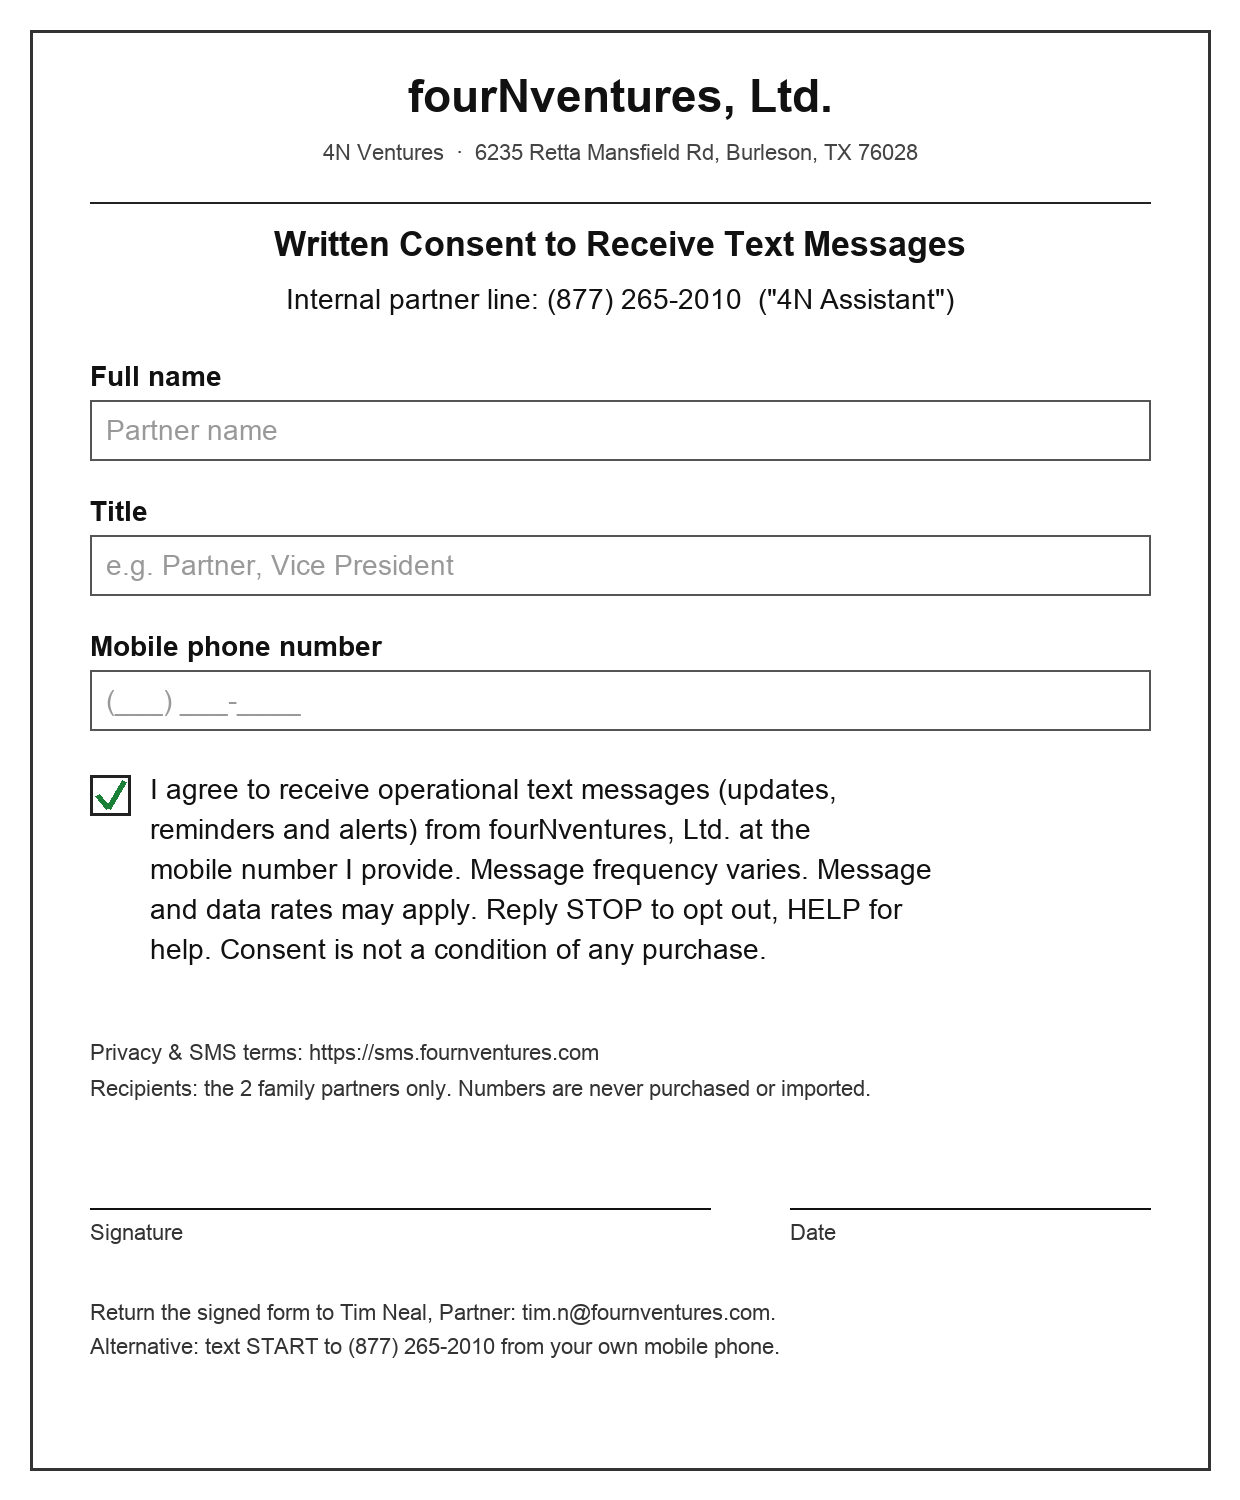
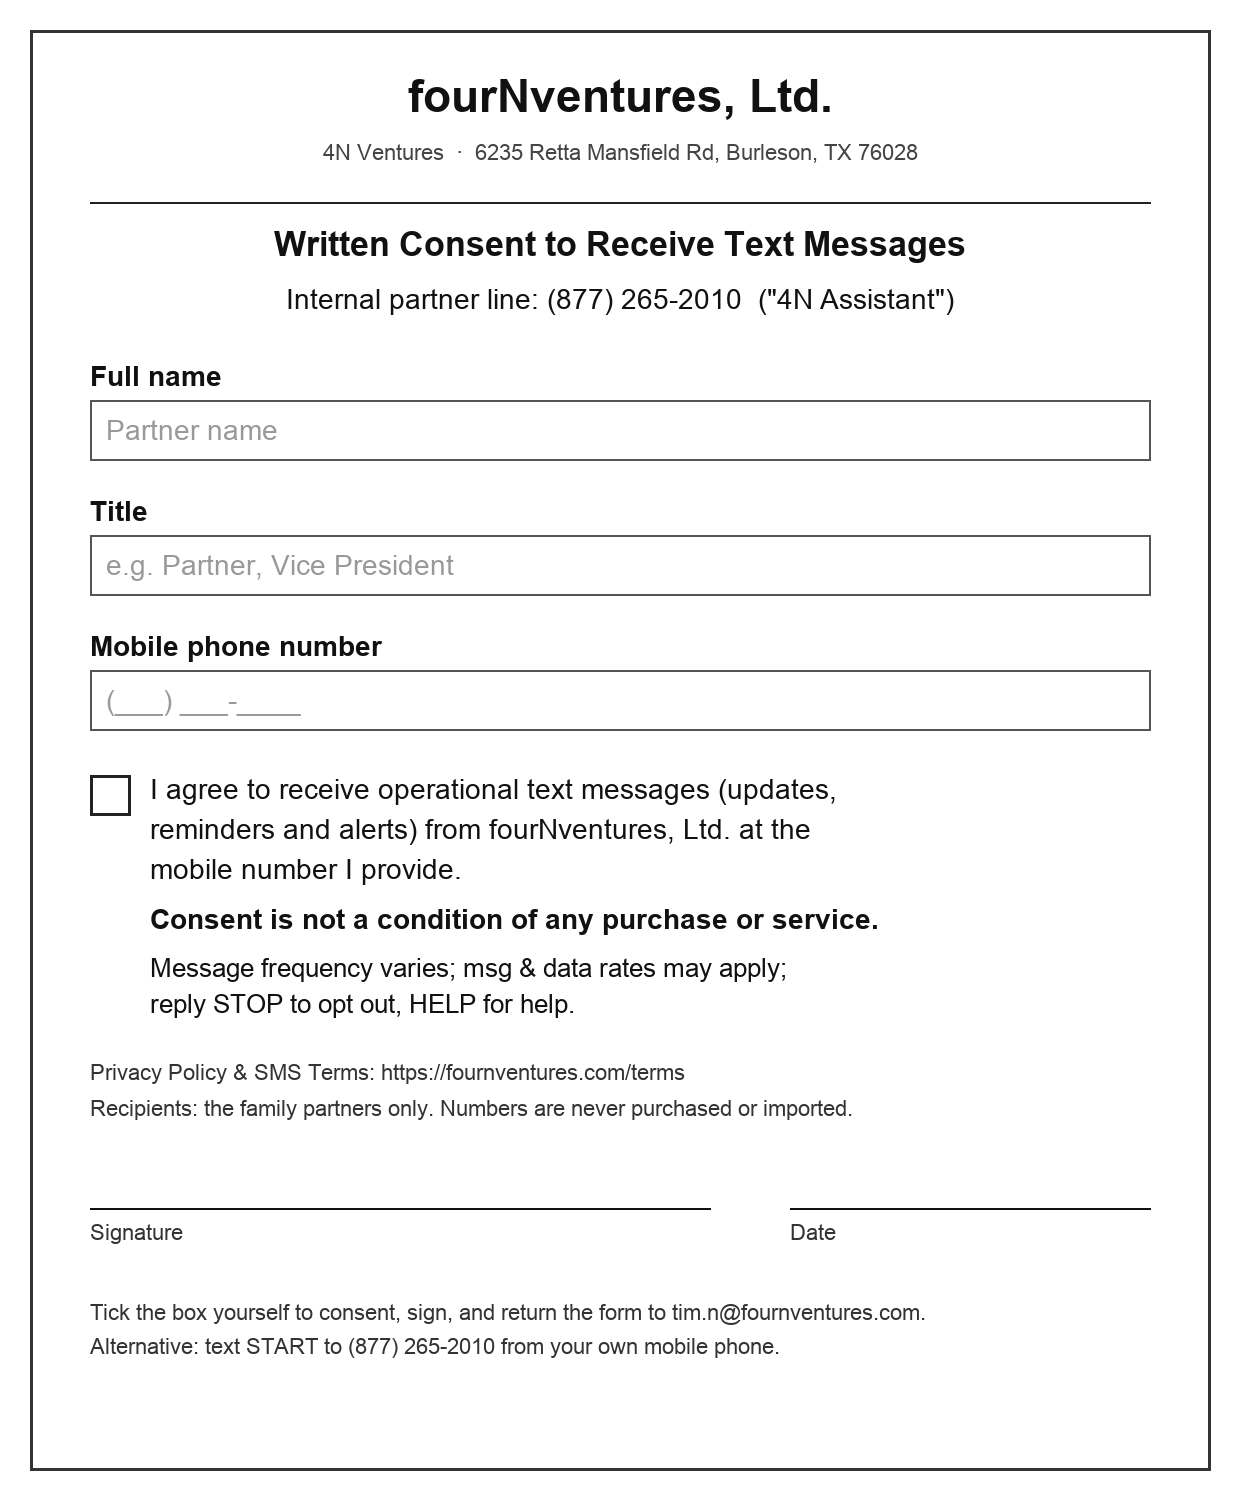
Move SMS terms to fournventures.com/terms (redirect); unchecked opt-in form

Changed region(s): [[0.0613, 0.552, 0.7355, 0.7667], [0.0613, 0.8587, 0.7355, 0.8893]]

diff --git a/index.html b/index.html
@@ -3,42 +3,12 @@
 <head>
 <meta charset="utf-8">
 <meta name="viewport" content="width=device-width, initial-scale=1">
-<title>Privacy &amp; SMS Terms | fourNventures, Ltd. (4N Ventures)</title>
-<style>
-  body { font-family: -apple-system, BlinkMacSystemFont, "Segoe UI", Roboto, Helvetica, Arial, sans-serif; color: #222; background: #fff; margin: 0; line-height: 1.6; }
-  main { max-width: 720px; margin: 0 auto; padding: 40px 20px 60px; }
-  h1 { font-size: 1.8em; margin: 0 0 0.6em; }
-  h2 { font-size: 1.2em; margin: 1.6em 0 0.4em; }
-  p { margin: 0 0 1em; }
-  .muted { color: #666; font-size: 0.95em; }
-  a { color: #0b5cad; }
-</style>
+<title>SMS Terms | fourNventures, Ltd.</title>
+<link rel="canonical" href="https://fournventures.com/terms">
+<meta http-equiv="refresh" content="0; url=https://fournventures.com/terms">
+<script>location.replace("https://fournventures.com/terms" + (location.hash || ""));</script>
 </head>
-<body>
-<main>
-<h1>Privacy &amp; SMS Terms</h1>
-<p>fourNventures, Ltd. (4N Ventures), a Texas limited partnership and Neal family real-estate company, 6235 Retta Mansfield Rd, Burleson, TX 76028.</p>
-
-<h2 id="opt-in">How to opt in</h2>
-<p>This text line, <strong>(877) 265-2010</strong> ("4N Assistant"), sends internal operational messages only to the family partners of fourNventures, Ltd. No tenants, customers or members of the public receive these messages, and phone numbers are never purchased or imported.</p>
-<p>A partner opts in in one of two ways:</p>
-<ol>
-<li><strong>By text:</strong> text <strong>START</strong> to (877) 265-2010 from their own mobile phone.</li>
-<li><strong>In writing:</strong> by signing the written consent form below (or emailing the consent statement) to tim.n@fournventures.com.</li>
-</ol>
-<p><strong>Consent statement:</strong> "I agree to receive operational text messages (updates, reminders and alerts) from fourNventures, Ltd. at the mobile number I provide. Message frequency varies. Message and data rates may apply. Reply STOP to opt out, HELP for help. Consent is not a condition of any purchase."</p>
-<p><strong>Confirmation message sent after opt-in:</strong> "4N Assistant: You're subscribed to partner updates from fourNventures, Ltd. Msg frequency varies. Msg &amp; data rates may apply. Reply HELP for help, STOP to opt out."</p>
-<p><strong>Written consent form:</strong></p>
-<p><img src="optin-form.png" alt="fourNventures, Ltd. written SMS consent form: name, title, mobile number, checked consent statement, signature and date" style="max-width:100%;border:1px solid #ccc"></p>
-<p>Opt-in records (date, method, number) are kept by the partnership. See our privacy terms below.</p>
-
-<h2>Text messages</h2>
-<p>We send occasional operational text messages (property and partnership updates, reminders and alerts) only to partners who have agreed to receive them. Message frequency varies. Message and data rates may apply. Reply STOP to opt out at any time, or HELP for help. Contact: Tim Neal, <a href="mailto:tim.n@fournventures.com">tim.n@fournventures.com</a>.</p>
-
-<h2>Privacy</h2>
-<p>We collect only the contact information needed to send these messages. Mobile information will not be shared with third parties or affiliates for marketing or promotional purposes. Text messaging opt-in data and consent will not be shared with any third parties. We do not sell personal information.</p>
-
-<p class="muted">Last updated: October 26, 2026.</p>
-</main>
+<body style="font-family:-apple-system,Helvetica,Arial,sans-serif;max-width:640px;margin:40px auto;padding:0 20px">
+<p>The fourNventures, Ltd. SMS Terms and Privacy Policy have moved to <a href="https://fournventures.com/terms">fournventures.com/terms</a> and <a href="https://fournventures.com/privacy">fournventures.com/privacy</a>.</p>
 </body>
 </html>
